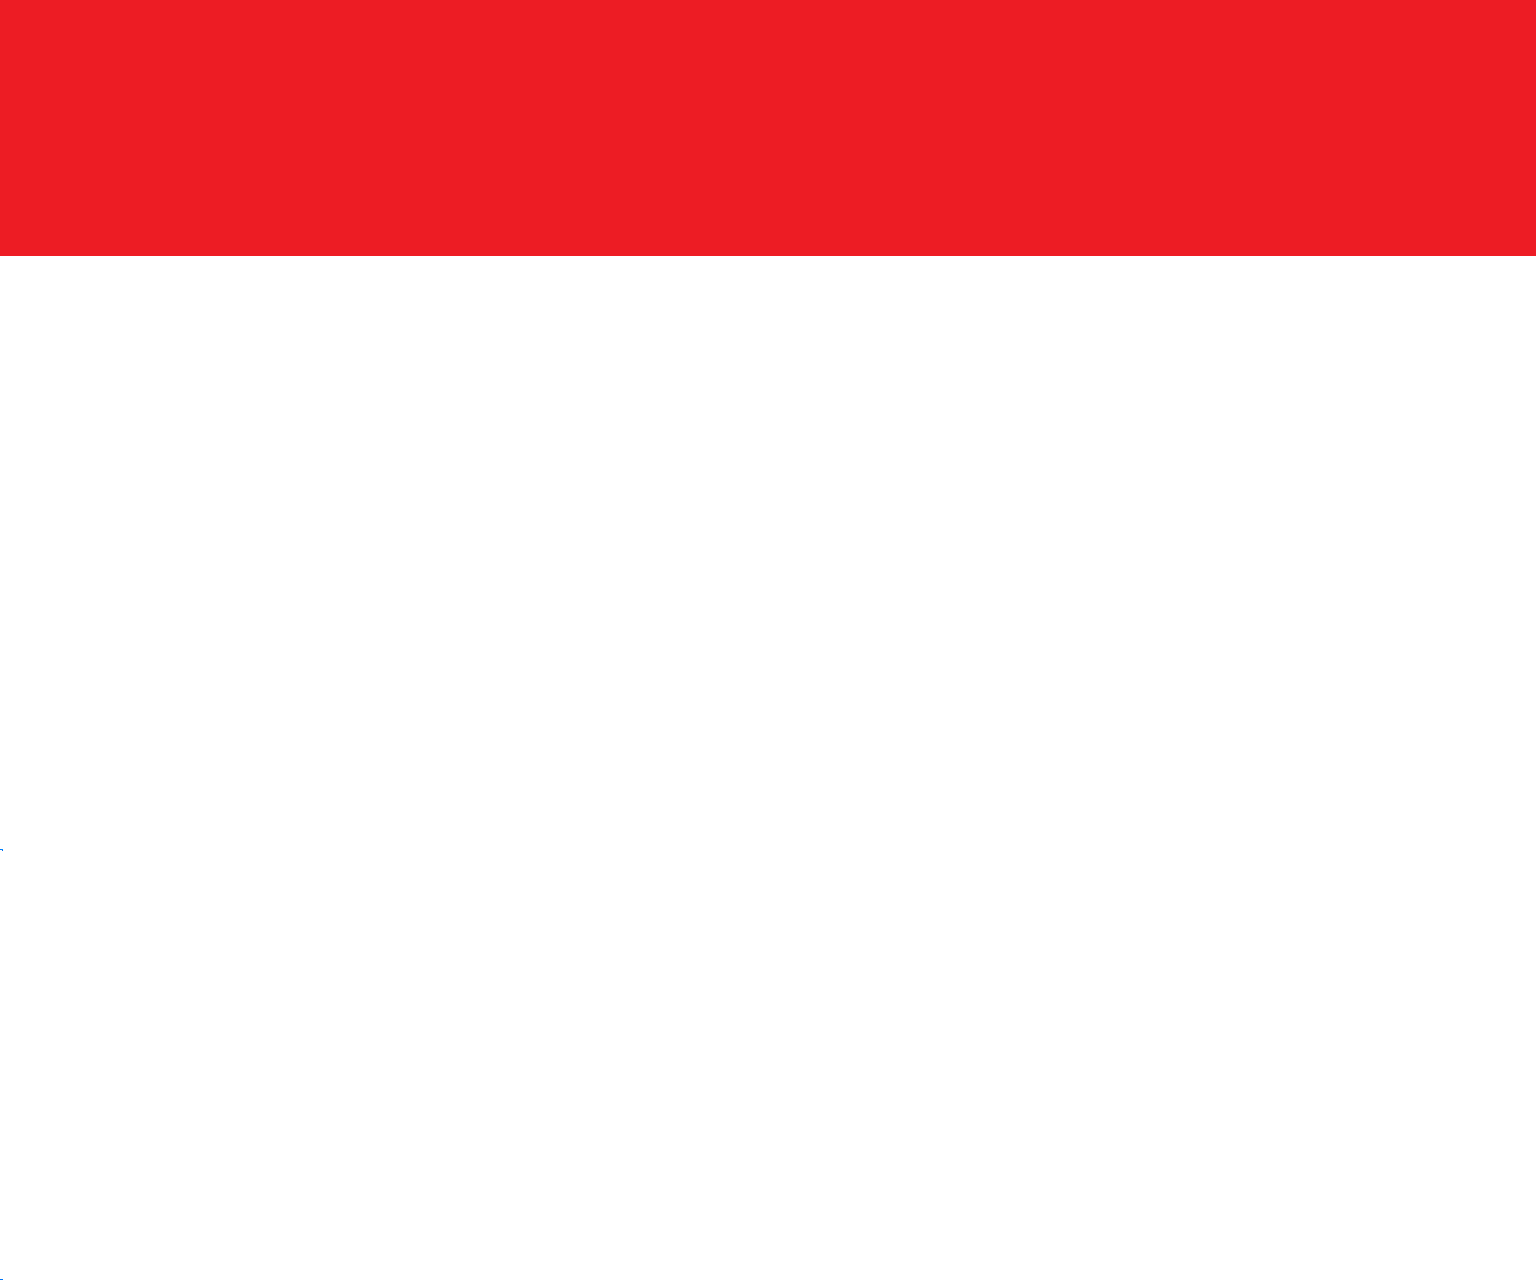
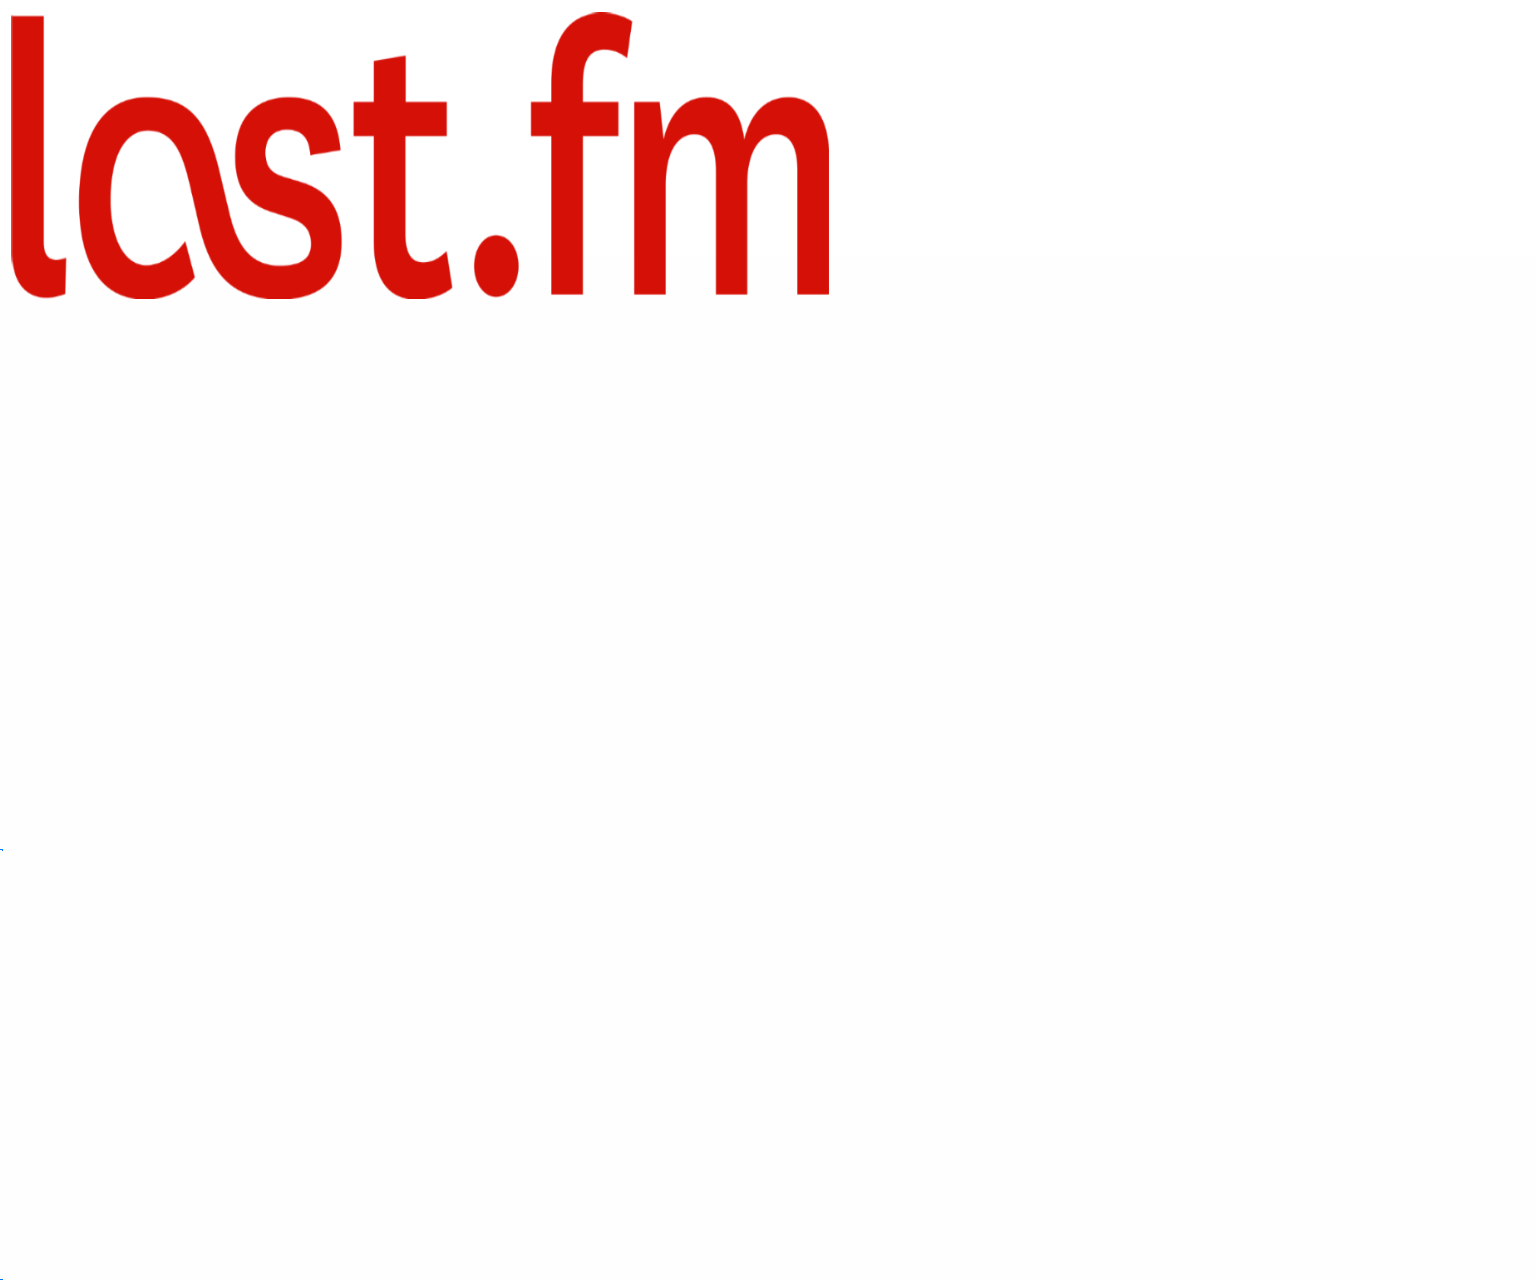
Бэкграунд поменян

Changed region(s): [[0.0, 0.0, 1.0, 0.25]]

diff --git a/LFC/MainPage.xaml b/LFC/MainPage.xaml
@@ -37,7 +37,7 @@
          -->
 
         <!--Panorama control-->
-        <phone:Panorama Title="Last.fm" x:Name="Main">
+        <phone:Panorama Title="" x:Name="Main">
             <phone:Panorama.Background>
                 <ImageBrush ImageSource="/LFC;component/Assets/PanoramaBackground.png"/>
             </phone:Panorama.Background>
